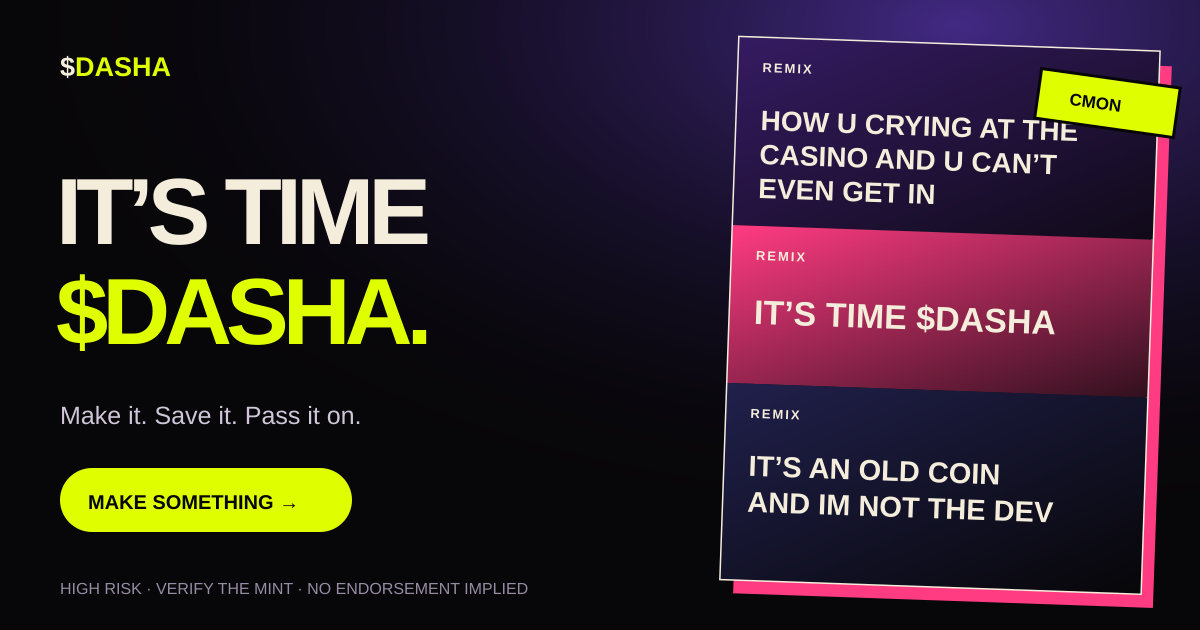
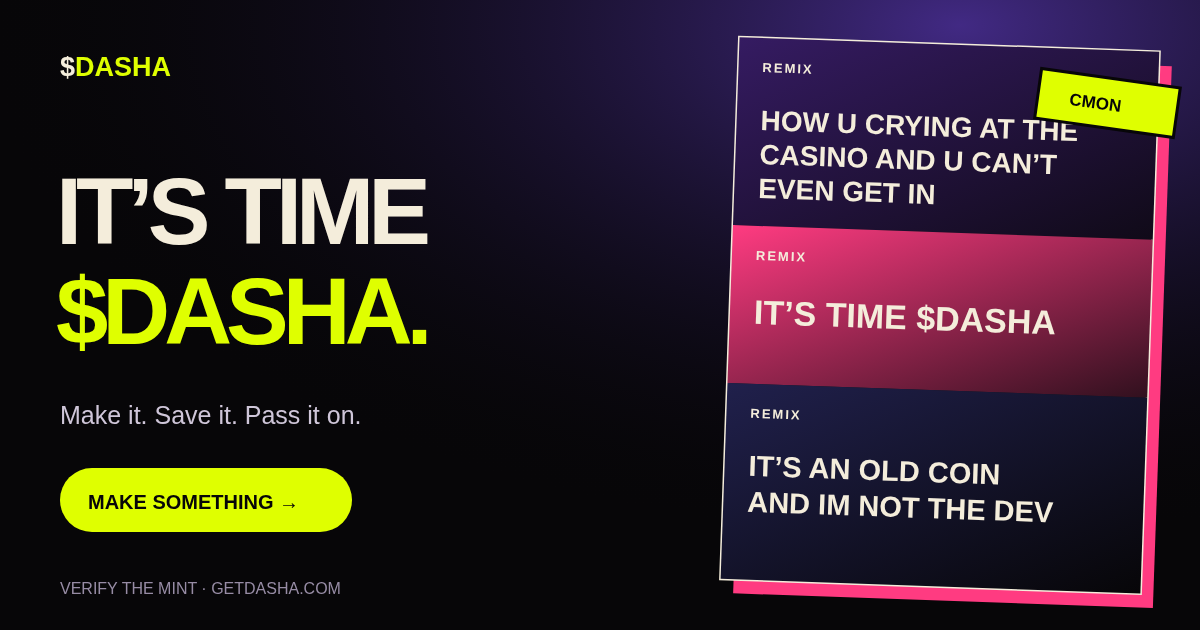
dasha: no disclaimers — and fix the ship tool that cried wolf about it
Every Dasha surface carried risk language, and it was doing nothing. "High
risk. Not financial advice. Can go to zero." is not a warning anyone reads on
a page that already says the words "culture coin"; it is a reflex. Worse, one
of the hedges had gone false: the Desk claimed no affiliation with Dasha,
which stopped being true when this became the official project.

Removed across home, Studio, Desk, how-to-buy, the Culture Capsule footer and
the OG card. The exported memes now carry GETDASHA.COM in the corner where
"NFA · CAN GO TO ZERO" used to sit — the same pixels, doing work.

Kept deliberately, because these are product, not cover:
  - "Check the mint" and "Never trust a mint from DMs" — anti-scam guidance,
    the one place a reader can actually lose money by not knowing something.
  - The CC0 likeness carve-out. Removing it would imply the dedication grants
    likeness and endorsement rights that no licence can grant.
  - "Not affiliated with Dasha" stays FORBIDDEN in the release contract, so a
    stale paste cannot put the false claim back.

The gates and the release contract moved with the sources rather than being
loosened after the fact: fifteen gates that asserted the removed strings now
assert what replaced them, and the live gate no longer requires risk copy it
would have kept demanding forever.

Also fixes a real fragility this shipping run exposed. verifyLive() ran ~2s
after publish_site and reported six failures on a publish that was correct —
[…]

diff --git a/dasha-landing.html b/dasha-landing.html
@@ -23,7 +23,7 @@
 <main class="dasha" id="top">
   <nav class="nav wrap" aria-label="Main navigation"><a class="brand" href="#top">$<span>DASHA</span></a><div class="navlinks"><a href="/studio">Studio</a><a href="https://x.com/dash_eats" target="_blank" rel="noopener noreferrer">@dash_eats ↗</a><a href="#token">Mint</a><a class="pill primary buy-dasha" href="https://jup.ag/swap?sell=So11111111111111111111111111111111111111112&amp;buy=53uxQtB9pcjWvCHguz3JTTndvuKqGxhrD37EetnCpump" target="_blank" rel="noopener noreferrer">Buy $dasha ↗</a></div></nav>
   <header class="dasha-hero wrap" id="content">
-    <div><h1>It’s time<br><span class="stroke">$dasha.</span></h1><div class="actions"><a class="pill primary" href="/studio#look=signal&amp;format=story&amp;line=It%E2%80%99s%20time%20%24dasha">Make something →</a><a class="pill buy-dasha" href="https://jup.ag/swap?sell=So11111111111111111111111111111111111111112&amp;buy=53uxQtB9pcjWvCHguz3JTTndvuKqGxhrD37EetnCpump" target="_blank" rel="noopener noreferrer">Buy $dasha ↗</a><a class="pill" href="https://github.com/Uuriko/dasha-desk" target="_blank" rel="noopener noreferrer">Contribute ↗</a></div><p class="micro">Can go to zero. <a href="#token">Check the mint ↓</a></p></div>
+    <div><h1>It’s time<br><span class="stroke">$dasha.</span></h1><div class="actions"><a class="pill primary" href="/studio#look=signal&amp;format=story&amp;line=It%E2%80%99s%20time%20%24dasha">Make something →</a><a class="pill buy-dasha" href="https://jup.ag/swap?sell=So11111111111111111111111111111111111111112&amp;buy=53uxQtB9pcjWvCHguz3JTTndvuKqGxhrD37EetnCpump" target="_blank" rel="noopener noreferrer">Buy $dasha ↗</a><a class="pill" href="https://github.com/Uuriko/dasha-desk" target="_blank" rel="noopener noreferrer">Contribute ↗</a></div><p class="micro"><a href="#token">Check the mint ↓</a></p></div>
     <div class="poster"><span class="sticker">CMON</span><div class="poster-grid" aria-label="Editable Dasha Studio examples"><a class="poster-tile" href="/studio#look=poster&amp;format=square&amp;line=How%20u%20crying%20at%20the%20casino%20and%20u%20can%E2%80%99t%20even%20get%20in"><small>Remix</small><strong>How u crying at the casino and u can’t even get in</strong></a><a class="poster-tile" href="/studio#look=ticket&amp;format=story&amp;line=It%E2%80%99s%20time%20%24dasha"><small>Remix</small><strong>It’s time $dasha</strong></a><a class="poster-tile" href="/studio#look=signal&amp;format=banner&amp;line=It%E2%80%99s%20an%20old%20coin%20and%20Im%20not%20the%20dev"><small>Remix</small><strong>It’s an old coin and Im not the dev</strong></a></div></div>
   </header>
   <div class="ticker" aria-hidden="true"><div>$DASHA · IT’S TIME · CMON · WELL IM STILL ALIVE · $DASHA · IT’S TIME · CMON · WELL IM STILL ALIVE · </div></div>
@@ -39,8 +39,8 @@
     <div class="actions"><a class="pill" href="https://x.com/intent/post?text=Transmission%20001%3A%20%5Bpaste%20your%20editable%20Dasha%20link%5D%20%40dash_eats%20%24dasha%20https%3A%2F%2Fwww.getdasha.com%2F%23simp" target="_blank" rel="noopener noreferrer">Submit work ↗</a></div>
     <p class="micro">Editorial. No bought spots.</p>
   </div></section>
-  <section id="token"><div class="wrap contract"><div><div class="section-kicker">$dasha</div><h2>Don’t get<br>the wrong one.</h2><div class="ca"><code id="mint">53uxQtB9pcjWvCHguz3JTTndvuKqGxhrD37EetnCpump</code><button class="copy" type="button" aria-label="Copy contract address">COPY</button></div><p class="source-note">Source: <a href="https://x.com/dash_eats/status/2085405228078432279" target="_blank" rel="noopener noreferrer">@dash_eats ↗</a>. Association is not endorsement.</p><div class="linkrow"><a href="https://dexscreener.com/solana/9kkdpvuqrqxjiuymfcy1cwqrxlwdcggur2cap2qt7bu7" target="_blank" rel="noopener noreferrer">Chart ↗</a><a href="https://solscan.io/token/53uxQtB9pcjWvCHguz3JTTndvuKqGxhrD37EetnCpump" target="_blank" rel="noopener noreferrer">Solscan ↗</a><a href="https://rugcheck.xyz/tokens/53uxQtB9pcjWvCHguz3JTTndvuKqGxhrD37EetnCpump" target="_blank" rel="noopener noreferrer">Rugcheck ↗</a><a href="https://jup.ag/swap?sell=So11111111111111111111111111111111111111112&amp;buy=53uxQtB9pcjWvCHguz3JTTndvuKqGxhrD37EetnCpump" target="_blank" rel="noopener noreferrer">Jupiter ↗</a></div></div><a class="pill primary buy-dasha" href="https://jup.ag/swap?sell=So11111111111111111111111111111111111111112&amp;buy=53uxQtB9pcjWvCHguz3JTTndvuKqGxhrD37EetnCpump" target="_blank" rel="noopener noreferrer">Buy $dasha ↗</a><p class="buy-warning">Can go to zero. Never trust a mint from DMs.</p></div></section>
-<footer><div class="wrap"><p>Open source by <a href="https://x.com/potterlab" target="_blank" rel="noopener noreferrer">John Potter</a> + <a href="https://x.com/perryalpha" target="_blank" rel="noopener noreferrer">@perryalpha</a>.</p><p>High risk. Not financial advice. Not made by Dasha.</p><p><a href="/studio">Studio</a> · <a href="/dasha">Desk</a> · <a href="#token">Mint</a> · <a href="https://x.com/dash_eats" target="_blank" rel="noopener noreferrer">@dash_eats ↗</a> · <a href="https://github.com/Uuriko/dasha-desk" target="_blank" rel="noopener noreferrer">Source ↗</a></p></div></footer>
+  <section id="token"><div class="wrap contract"><div><div class="section-kicker">$dasha</div><h2>Don’t get<br>the wrong one.</h2><div class="ca"><code id="mint">53uxQtB9pcjWvCHguz3JTTndvuKqGxhrD37EetnCpump</code><button class="copy" type="button" aria-label="Copy contract address">COPY</button></div><p class="source-note">Source: <a href="https://x.com/dash_eats/status/2085405228078432279" target="_blank" rel="noopener noreferrer">@dash_eats ↗</a>.</p><div class="linkrow"><a href="https://dexscreener.com/solana/9kkdpvuqrqxjiuymfcy1cwqrxlwdcggur2cap2qt7bu7" target="_blank" rel="noopener noreferrer">Chart ↗</a><a href="https://solscan.io/token/53uxQtB9pcjWvCHguz3JTTndvuKqGxhrD37EetnCpump" target="_blank" rel="noopener noreferrer">Solscan ↗</a><a href="https://rugcheck.xyz/tokens/53uxQtB9pcjWvCHguz3JTTndvuKqGxhrD37EetnCpump" target="_blank" rel="noopener noreferrer">Rugcheck ↗</a><a href="https://jup.ag/swap?sell=So11111111111111111111111111111111111111112&amp;buy=53uxQtB9pcjWvCHguz3JTTndvuKqGxhrD37EetnCpump" target="_blank" rel="noopener noreferrer">Jupiter ↗</a></div></div><a class="pill primary buy-dasha" href="https://jup.ag/swap?sell=So11111111111111111111111111111111111111112&amp;buy=53uxQtB9pcjWvCHguz3JTTndvuKqGxhrD37EetnCpump" target="_blank" rel="noopener noreferrer">Buy $dasha ↗</a><p class="buy-warning">Never trust a mint from DMs.</p></div></section>
+<footer><div class="wrap"><p>Open source by <a href="https://x.com/potterlab" target="_blank" rel="noopener noreferrer">John Potter</a> + <a href="https://x.com/perryalpha" target="_blank" rel="noopener noreferrer">@perryalpha</a>.</p><p></p><p><a href="/studio">Studio</a> · <a href="/dasha">Desk</a> · <a href="#token">Mint</a> · <a href="https://x.com/dash_eats" target="_blank" rel="noopener noreferrer">@dash_eats ↗</a> · <a href="https://github.com/Uuriko/dasha-desk" target="_blank" rel="noopener noreferrer">Source ↗</a></p></div></footer>
 </main>
 <script src="https://plugin.jup.ag/plugin-v1.js" data-preload defer></script>
 <script>(()=>{const mint='53uxQtB9pcjWvCHguz3JTTndvuKqGxhrD37EetnCpump',b=document.querySelector('.copy'),m=document.querySelector('#mint');b?.addEventListener('click',async()=>{try{await navigator.clipboard.writeText(m.textContent);b.textContent='COPIED'}catch{b.textContent='SELECT';const s=getSelection(),r=document.createRange();r.selectNodeContents(m);s.removeAllRanges();s.addRange(r)}setTimeout(()=>b.textContent='COPY',1800)});document.querySelectorAll('.buy-dasha').forEach(a=>a.addEventListener('click',e=>{if(!window.Jupiter?.init)return;try{window.Jupiter.init({formProps:{initialInputMint:'So11111111111111111111111111111111111111112',initialOutputMint:mint,fixedMint:mint},branding:{name:'Dasha'},defaultExplorer:'Solana Explorer'});e.preventDefault()}catch{}}))})()</script>

diff --git a/dasha-how-to-buy.html b/dasha-how-to-buy.html
@@ -4,13 +4,13 @@
 <meta charset="utf-8">
 <meta name="viewport" content="width=device-width,initial-scale=1">
 <title>How to buy $dasha — getdasha.com</title>
-<meta name="description" content="Four steps to buy $dasha on Solana: get SOL, verify the exact mint, open Jupiter, and review every warning before confirming. Can go to zero. NFA.">
+<meta name="description" content="Four steps to buy $dasha on Solana: get SOL, verify the exact mint, open Jupiter, and review every warning before confirming.">
 <link rel="canonical" href="https://www.getdasha.com/how-to-buy">
 <meta name="theme-color" content="#070608">
 <meta property="og:type" content="website">
 <meta property="og:url" content="https://www.getdasha.com/how-to-buy">
 <meta property="og:title" content="How to buy $dasha">
-<meta property="og:description" content="Get SOL. Verify the mint. Review the Jupiter quote and warnings before confirming. Culture coin · can go to zero · NFA.">
+<meta property="og:description" content="Get SOL. Verify the mint. Review the Jupiter quote and warnings before confirming.">
 <style>
 :root{color-scheme:dark;--ink:#070608;--paper:#f4eddb;--acid:#dfff00;--hot:#ff3b81;--line:rgba(244,237,219,.18);--muted:rgba(244,237,219,.62);--panel:rgba(255,255,255,.04);--mono:ui-monospace,Menlo,Consolas,monospace}
 *{box-sizing:border-box}body{margin:0;background:var(--ink);color:var(--paper);font:16px/1.55 Arial,Helvetica,sans-serif}
@@ -56,9 +56,8 @@ footer a{color:var(--muted)}
   <p class="lede">Four steps to complete a swap without trusting a mint from a DM. Stop whenever the address, quote, or wallet request is not what you expected.</p>
     <div class="culture-mark">
     <a href="https://x.com/dash_eats" target="_blank" rel="noopener noreferrer" aria-label="@dash_eats on X"><img src="https://pbs.twimg.com/profile_images/556455602331742208/KWkVe0TV.jpeg" alt="@dash_eats" width="48" height="48" loading="lazy" referrerpolicy="no-referrer"></a>
-    <p>Mint is associated from a public <a href="https://x.com/dash_eats/status/2085405228078432279" target="_blank" rel="noopener noreferrer">@dash_eats post ↗</a>. She is not claimed as the dev. Association is not endorsement.</p>
+    <p>Mint is associated from a public <a href="https://x.com/dash_eats/status/2085405228078432279" target="_blank" rel="noopener noreferrer">@dash_eats post ↗</a>.</p>
   </div>
-<aside class="risk" role="note">Culture coin · can go to zero · not financial advice · association is not endorsement · not an official product of any celebrity or show.</aside>
 
   <article class="step">
     <div class="n">01 · Wallet</div>
@@ -97,7 +96,7 @@ footer a{color:var(--muted)}
   </article>
 
   <footer>
-    <p>Not affiliated with Dasha, Red Scare, or <a href="https://x.com/dash_eats" target="_blank" rel="noopener noreferrer">@dash_eats</a> beyond public posts. Can go to zero.</p>
+    <p>Built by <a href="https://x.com/potterlab" target="_blank" rel="noopener noreferrer">John Potter</a> with <a href="https://x.com/perryalpha" target="_blank" rel="noopener noreferrer">@perryalpha</a>.</p>
     <p><a href="/">Home</a> · <a href="/studio">Studio</a> · <a href="/dasha">Desk</a> · <a href="https://jup.ag/swap?sell=So11111111111111111111111111111111111111112&buy=53uxQtB9pcjWvCHguz3JTTndvuKqGxhrD37EetnCpump" target="_blank" rel="noopener noreferrer">Buy $dasha ↗</a></p>
   </footer>
 </main>

diff --git a/dasha-meme-studio.html b/dasha-meme-studio.html
@@ -98,7 +98,7 @@
   </div>
 
   <footer>
-    <p>High risk. Not financial advice. Can go to zero.</p>
+    <p></p>
     <p>🍒 Original Studio assets and exports are <a href="https://creativecommons.org/publicdomain/zero/1.0/" target="_blank" rel="noopener noreferrer">CC0 1.0</a>: copy, change, sell. This is not permission to pass work off as official or use Dasha Nekrasova’s name or likeness.</p>
     <p><a href="/">Home</a> · <a href="/dasha#dd-mint">Desk</a> · <a href="https://x.com/dash_eats" target="_blank" rel="noopener noreferrer">@dash_eats ↗</a> · <a href="https://jup.ag/swap?sell=So11111111111111111111111111111111111111112&amp;buy=53uxQtB9pcjWvCHguz3JTTndvuKqGxhrD37EetnCpump" target="_blank" rel="noopener noreferrer">Buy $dasha ↗</a> · <a href="https://github.com/Uuriko/dasha-desk" target="_blank" rel="noopener noreferrer">Source ↗</a></p>
   </footer>
@@ -448,7 +448,7 @@ const draw = {
     ctx.fillStyle = 'rgba(244,237,219,.6)'; ctx.font = '700 24px ui-monospace,Menlo,Consolas,monospace';
     ctx.fillText(MARK, 120, 940);
     ctx.fillStyle = HOT; ctx.textAlign = 'right';
-    ctx.fillText('NFA · CAN GO TO ZERO', 960, 940); ctx.textAlign = 'left';
+    ctx.fillText('GETDASHA.COM', 960, 940); ctx.textAlign = 'left';
     drawMark(896, 112, 58, ACID);
   },
 };

diff --git a/dasha-studio-embed.html b/dasha-studio-embed.html
@@ -97,7 +97,7 @@
   </div>
 
   <footer>
-    <p>High risk. Not financial advice. Can go to zero.</p>
+    <p></p>
     <p>🍒 Original Studio assets and exports are <a href="https://creativecommons.org/publicdomain/zero/1.0/" target="_blank" rel="noopener noreferrer">CC0 1.0</a>: copy, change, sell. This is not permission to pass work off as official or use Dasha Nekrasova’s name or likeness.</p>
     <p><a href="/">Home</a> · <a href="/dasha#dd-mint">Desk</a> · <a href="https://x.com/dash_eats" target="_blank" rel="noopener noreferrer">@dash_eats ↗</a> · <a href="https://jup.ag/swap?sell=So11111111111111111111111111111111111111112&amp;buy=53uxQtB9pcjWvCHguz3JTTndvuKqGxhrD37EetnCpump" target="_blank" rel="noopener noreferrer">Buy $dasha ↗</a> · <a href="https://github.com/Uuriko/dasha-desk" target="_blank" rel="noopener noreferrer">Source ↗</a></p>
   </footer>
@@ -447,7 +447,7 @@ const draw = {
     ctx.fillStyle = 'rgba(244,237,219,.6)'; ctx.font = '700 24px ui-monospace,Menlo,Consolas,monospace';
     ctx.fillText(MARK, 120, 940);
     ctx.fillStyle = HOT; ctx.textAlign = 'right';
-    ctx.fillText('NFA · CAN GO TO ZERO', 960, 940); ctx.textAlign = 'left';
+    ctx.fillText('GETDASHA.COM', 960, 940); ctx.textAlign = 'left';
     drawMark(896, 112, 58, ACID);
   },
 };

diff --git a/dasha-studio-embed.js b/dasha-studio-embed.js
@@ -89,7 +89,7 @@
   </div>
 
   <footer>
-    <p>High risk. Not financial advice. Can go to zero.</p>
+    <p></p>
     <p>🍒 Original Studio assets and exports are <a href="https://creativecommons.org/publicdomain/zero/1.0/" target="_blank" rel="noopener noreferrer">CC0 1.0</a>: copy, change, sell. This is not permission to pass work off as official or use Dasha Nekrasova’s name or likeness.</p>
     <p><a href="/">Home</a> · <a href="/dasha#dd-mint">Desk</a> · <a href="https://x.com/dash_eats" target="_blank" rel="noopener noreferrer">@dash_eats ↗</a> · <a href="https://jup.ag/swap?sell=So11111111111111111111111111111111111111112&amp;buy=53uxQtB9pcjWvCHguz3JTTndvuKqGxhrD37EetnCpump" target="_blank" rel="noopener noreferrer">Buy $dasha ↗</a> · <a href="https://github.com/Uuriko/dasha-desk" target="_blank" rel="noopener noreferrer">Source ↗</a></p>
   </footer>
@@ -439,7 +439,7 @@ const draw = {
     ctx.fillStyle = 'rgba(244,237,219,.6)'; ctx.font = '700 24px ui-monospace,Menlo,Consolas,monospace';
     ctx.fillText(MARK, 120, 940);
     ctx.fillStyle = HOT; ctx.textAlign = 'right';
-    ctx.fillText('NFA · CAN GO TO ZERO', 960, 940); ctx.textAlign = 'left';
+    ctx.fillText('GETDASHA.COM', 960, 940); ctx.textAlign = 'left';
     drawMark(896, 112, 58, ACID);
   },
 };

diff --git a/dasha-remix-pack.html b/dasha-remix-pack.html
@@ -25,7 +25,7 @@
       </section>
       <canvas class="dp-canvas" id="pack" width="1080" height="1080" role="img" aria-label="Preview of the Dasha culture capsule"></canvas>
     </div>
-    <footer class="dp-footer">$dasha is a high-risk culture coin and can lose all value. This tool makes images; it does not promise returns or verify contributor labels or the public context supplied by the capsule maker. Labels and links are not proof of authorship, consent, permission or endorsement. <a href="/studio">Make a remix</a>.</footer>
+    <footer class="dp-footer">Names and links are typed by whoever made the capsule. <a href="/studio">Make a remix</a>.</footer>
   </div>
 </main>
 <script>
